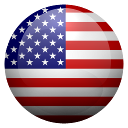
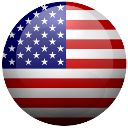
Betterifying images; Adding Mexico states; deciding against EU because the Wiki page is annoyingly set up

Changed region(s): [[0.0, 0.0, 1.0, 1.0], [0.3125, 0.4062, 0.4375, 0.5312]]

diff --git a/main.rb b/main.rb
@@ -31,6 +31,11 @@ post '/Canada' do
   erb :CountriesAndCapitals
 end
 
+post '/Mexico' do
+  CapitalPunishment.instance.set_current Mexico.instance
+  erb :CountriesAndCapitals
+end
+
 post '/toggle' do
   CapitalPunishment.instance.current.toggle_game_type_and_get_new_question
   erb :CountriesAndCapitals
@@ -285,3 +290,26 @@ class Canada < CountriesAndCapitalsBase
     @info = details.select { |detail| !detail.nil? }
   end
 end
+
+# Class to load data for Mexico
+class Mexico < CountriesAndCapitalsBase
+  include Singleton
+  def initialize
+    @url = "http://en.wikipedia.org/wiki/List_of_capitals_in_Mexico"
+    super
+  end
+
+  def load_details
+    details = @data.xpath("//table[@class='toc']/tr").map do |row|
+
+      state = row.at_xpath('td[1]/a/text()').to_s.strip
+      next if state.nil? || state.empty?
+      capital = Array.new
+      capital << row.at_xpath('td[2]/a/text()').to_s.strip
+      { state => capital }
+    end
+
+    @info = details.select { |detail| !detail.nil? }
+  end
+end
+
